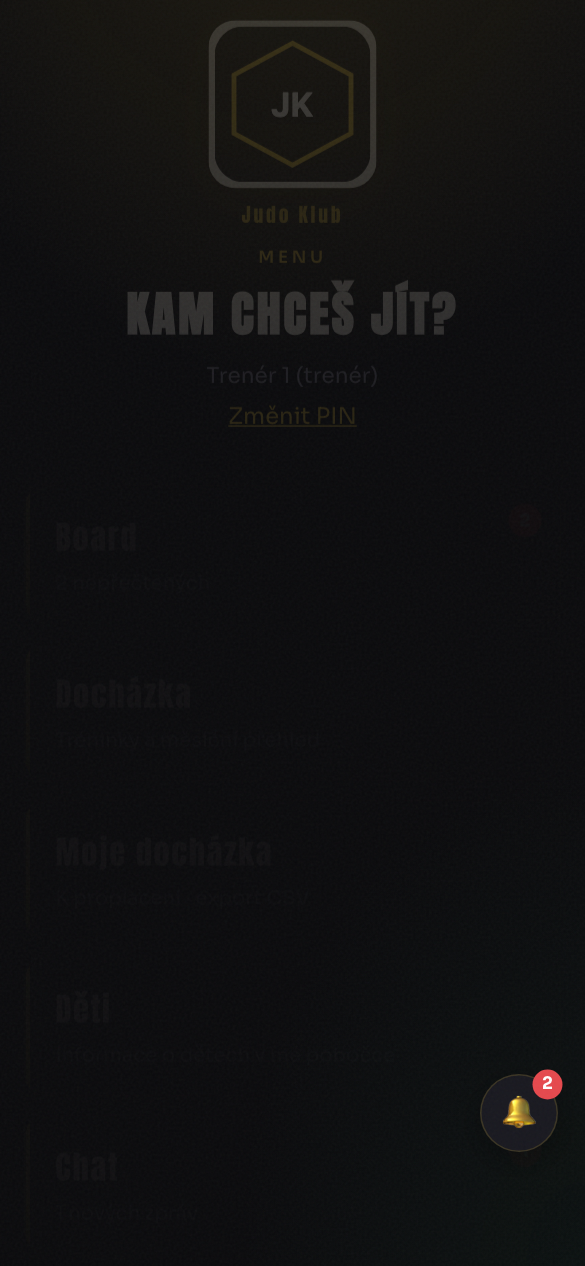
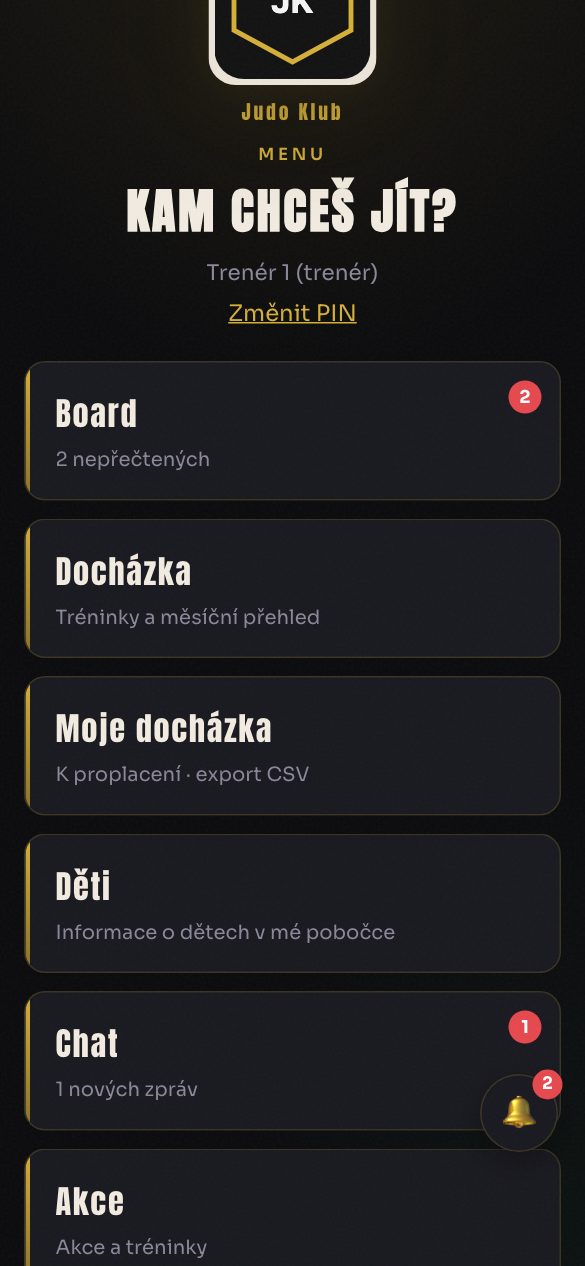
Recapture trainer and parent hub screenshots after UI settle.

diff --git a/scripts/capture_readme_screenshots.py b/scripts/capture_readme_screenshots.py
@@ -34,6 +34,13 @@ def wait_ready(page, timeout_ms: int = 20000) -> None:
     page.wait_for_load_state("networkidle", timeout=timeout_ms)
 
 
+def settle_ui(page, extra_ms: int = 3500) -> None:
+    """Fonts + badges need extra time on hub screens before screenshot."""
+    wait_ready(page)
+    page.evaluate("() => document.fonts.ready")
+    page.wait_for_timeout(extra_ms)
+
+
 def shot(page, name: str) -> None:
     path = OUT / f"{name}.png"
     page.screenshot(path=str(path), full_page=False)
@@ -93,8 +100,10 @@ def main() -> int:
         page.get_by_text("Vyber, jak se chceš přihlásit").wait_for(timeout=15000)
         shot(page, "01-landing")
 
-        # 2) Trainer hub
+        # 2) Trainer hub (wait for fonts + notification badges)
         login_trainer(page, state, state["trainers"][0]["name"])
+        page.locator(".hub-card__actions .trainer-card").first.wait_for(state="visible")
+        settle_ui(page, extra_ms=5000)
         shot(page, "02-trainer-hub")
 
         # 3) Attendance today
@@ -142,6 +151,8 @@ def main() -> int:
         context.clear_cookies()
         page.evaluate("() => { localStorage.clear(); sessionStorage.clear(); }")
         login_parent(page, state)
+        page.get_by_text("Moje děti").wait_for(state="visible")
+        settle_ui(page, extra_ms=5000)
         shot(page, "07-parent-home")
 
         # 8) Parent attendance
